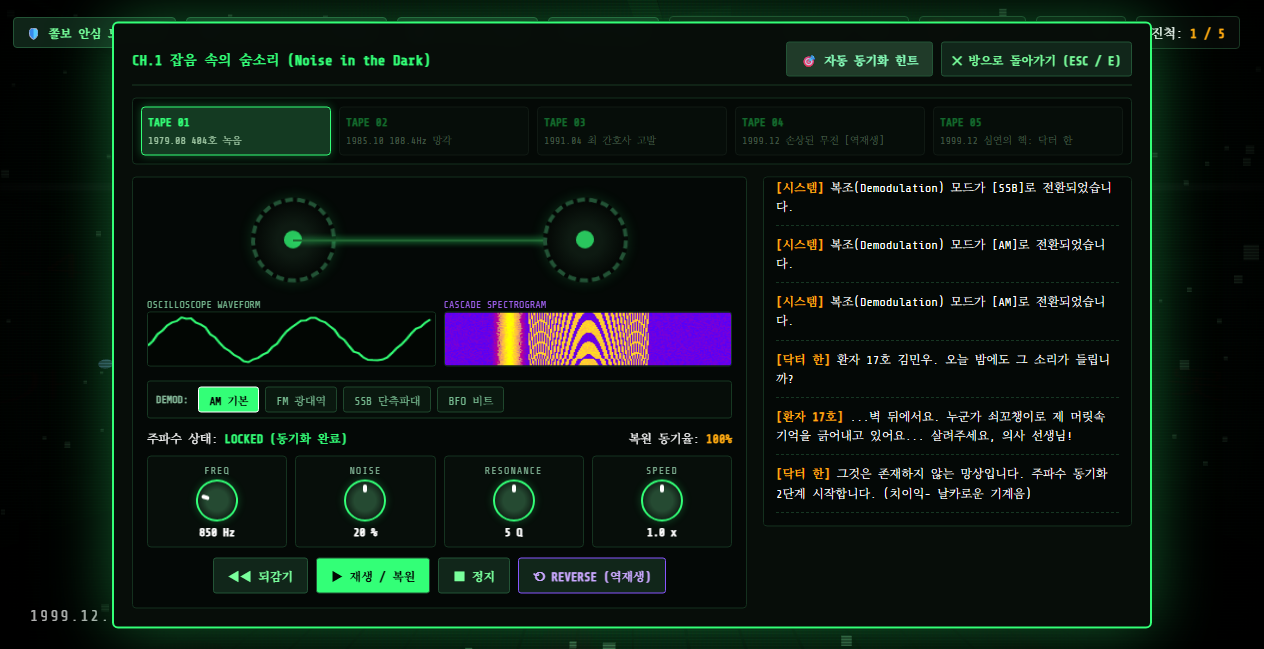
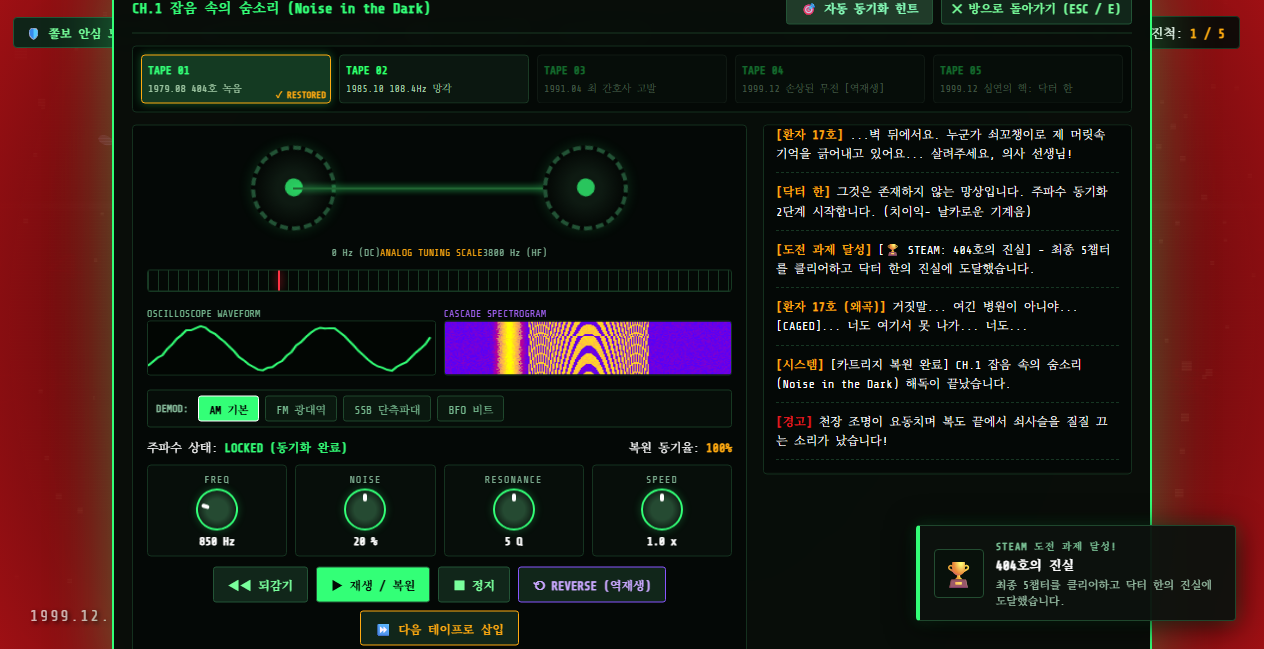
feat: Steam Masterpiece Definitive Apex - Right-Click Camcorder Zoom, Analog Tuning Needle, Chromatic Sanity Pulse, and Multi-Branching Endings

diff --git a/test_archive_game.py b/test_archive_game.py
@@ -158,6 +158,23 @@ def test_game():
         print(f"   - Ch.1 완료 후 피 웅덩이 확장 상태: {puddle_scaled}")
         assert puddle_scaled
 
+        print("7.6. 우클릭 캠코더 줌, 튜닝 바늘, 색수차 오버레이 검증")
+        zoom_frame_exists = evaluate_js("document.getElementById('camcorderZoomFrame') !== null")
+        needle_exists = evaluate_js("document.getElementById('tuningNeedleIndicator') !== null")
+        chromatic_exists = evaluate_js("document.getElementById('chromaticPulseOverlay') !== null")
+        print(f"   - 캠코더 줌 프레임: {zoom_frame_exists}")
+        print(f"   - 아날로그 튜닝 바늘: {needle_exists}")
+        print(f"   - 광기 색수차 오버레이: {chromatic_exists}")
+        assert zoom_frame_exists and needle_exists and chromatic_exists
+
+        print("7.7. 스팀 상용화 멀티 엔딩 시스템 테스트")
+        evaluate_js("showFinalEnding()")
+        cdp.drain(300)
+        final_open = evaluate_js("document.getElementById('finalModal').style.display === 'flex'")
+        print(f"   - 멀티 엔딩 모달 출력 확인: {final_open}")
+        assert final_open
+        evaluate_js("document.getElementById('finalModal').style.display = 'none'")
+
         cdp.screenshot(Path("site/archive-1999-final-test.png"))
         print("   ✅ 최종 플레이테스트 스크린샷 저장 완료: site/archive-1999-final-test.png")
 
